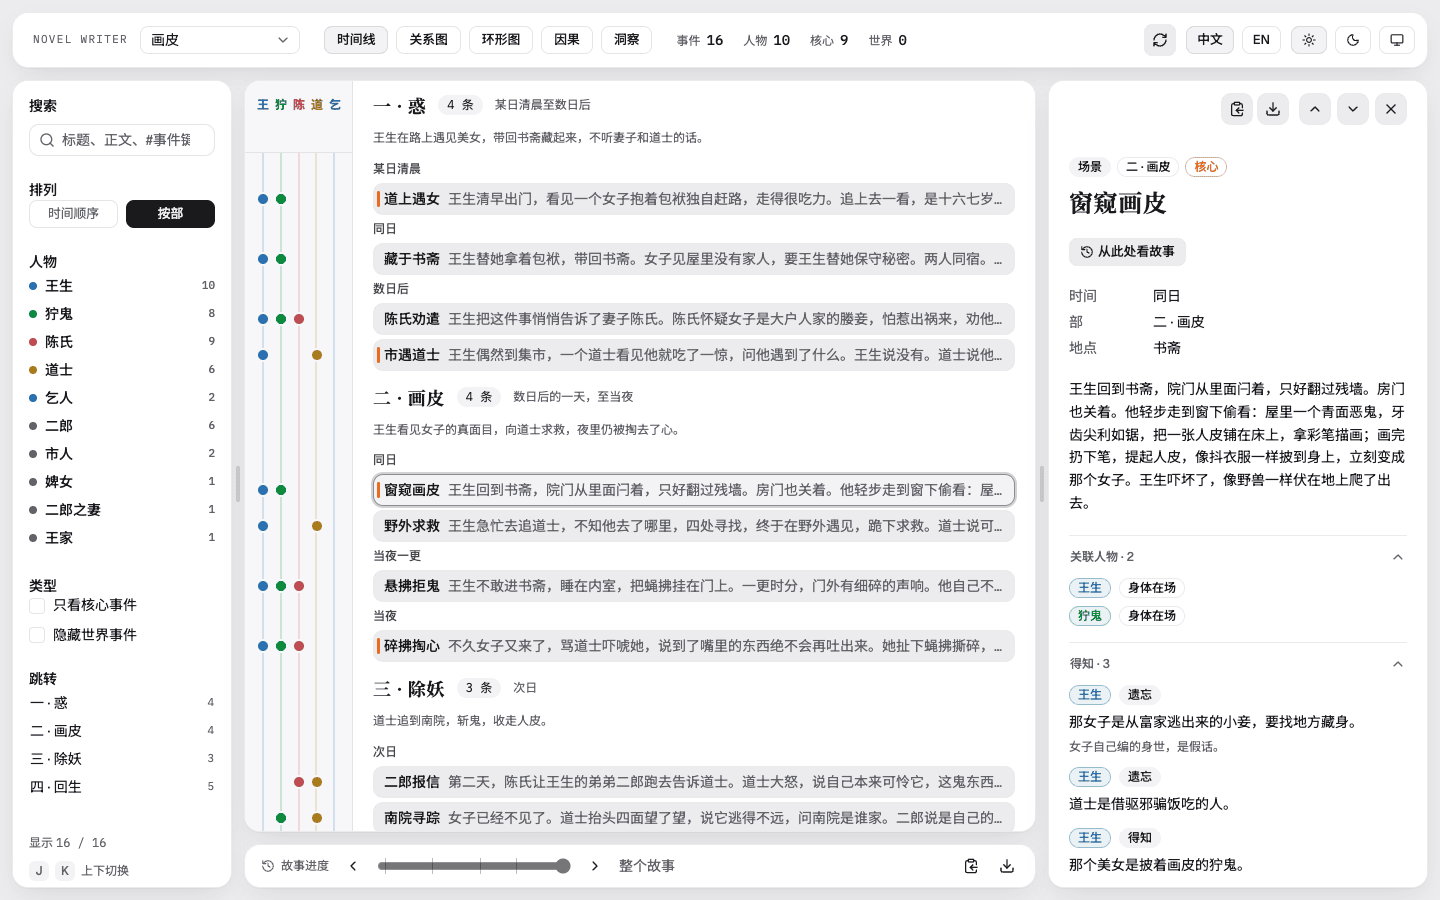
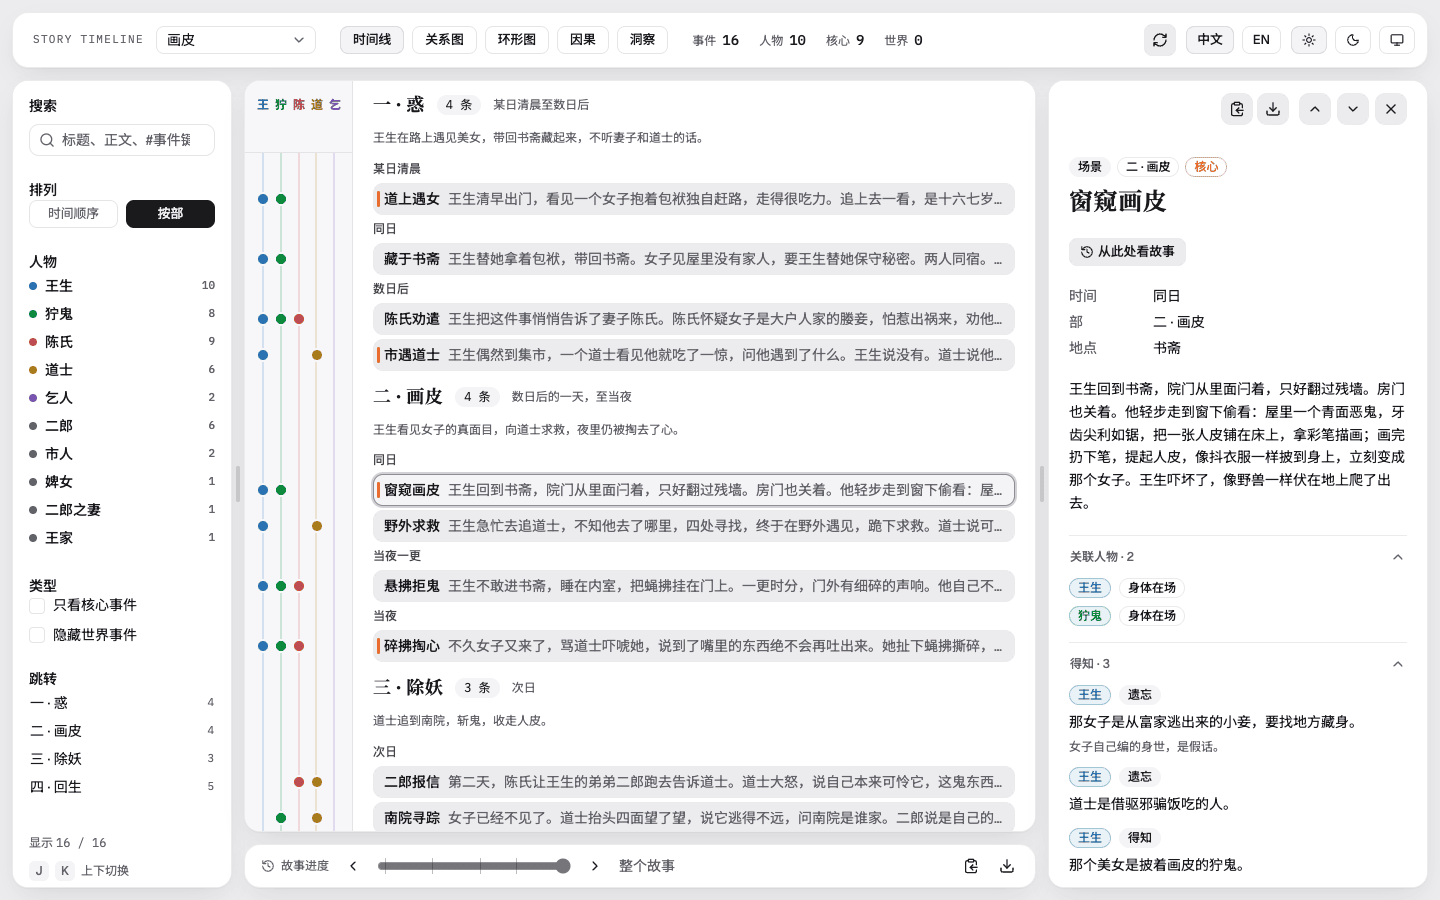
Fix the brand name, serif apostrophe, and lane colors in the web app

diff --git a/apps/web/src/components/people.tsx b/apps/web/src/components/people.tsx
@@ -18,14 +18,32 @@ export const PALETTE = [
   { light: 'oklch(0.52 0.05 245)', dark: 'oklch(0.76 0.04 245)' },
 ]
 
+/** The hue of an `oklch(L C H)` color, or undefined for any other color. */
+function oklchHue(color: string): number | undefined {
+  const m = /oklch\(\s*[\d.]+%?\s+[\d.]+\s+([\d.]+)/.exec(color)
+  return m ? Number(m[1]) : undefined
+}
+
+/** Hues closer than this (in degrees) read as the same color in a lane. */
+const HUE_GAP = 25
+
+/** True when a palette slot looks like an explicit color: the same value, or an oklch hue near it. */
+function slotTaken(slot: (typeof PALETTE)[number], color: string): boolean {
+  if (color.includes(slot.light) || color.includes(slot.dark)) return true
+  const hue = oklchHue(color)
+  if (hue === undefined) return false
+  const diff = Math.abs(hue - oklchHue(slot.light)!) % 360
+  return Math.min(diff, 360 - diff) < HUE_GAP
+}
+
 /**
  * Gives every lane a color. A character with an explicit color keeps it. The others take palette
- * slots in lane order, skipping a slot whose exact value an explicit color already uses, and
- * cycling past the last slot.
+ * slots in lane order, skipping a slot that an explicit color already uses (the same value, or
+ * an oklch color with a near hue), and cycling past the last slot.
  */
 export function laneColors(lanes: Character[]): LaneIndex {
   const explicit = lanes.flatMap(c => c.metadata?.color ?? [])
-  const free = PALETTE.map((_, i) => i).filter(i => !explicit.some(v => v.includes(PALETTE[i].light) || v.includes(PALETTE[i].dark)))
+  const free = PALETTE.map((_, i) => i).filter(i => !explicit.some(v => slotTaken(PALETTE[i], v)))
   const slots = free.length ? free : PALETTE.map((_, i) => i)
   let next = 0
   return new Map(lanes.map(c => [c.key, c.metadata?.color ?? `var(--person-${slots[next++ % slots.length]})`]))

diff --git a/apps/web/src/components/ProjectPicker.tsx b/apps/web/src/components/ProjectPicker.tsx
@@ -7,7 +7,7 @@ export interface ProjectOption {
   name: string
 }
 
-/** Desktop: the NOVEL WRITER mark and a select. Phone (`title`): the name as a serif title with a subtitle line. */
+/** Desktop: the STORY TIMELINE mark and a select. Phone (`title`): the name as a serif title with a subtitle line. */
 export function ProjectPicker({ projects, value, onChange, subtitle }: {
   projects: ProjectOption[]
   value: string
@@ -20,7 +20,7 @@ export function ProjectPicker({ projects, value, onChange, subtitle }: {
   return (
     <div className={cn('flex min-w-0 items-center gap-3', title && 'gap-0')}>
       {/* The mark gives way below 1280px, so the views and the tools keep their room. */}
-      {!title && <p className="font-mono text-[11px] tracking-[0.12em] whitespace-nowrap text-muted-foreground max-xl:hidden">NOVEL WRITER</p>}
+      {!title && <p className="font-mono text-[11px] tracking-[0.12em] whitespace-nowrap text-muted-foreground max-xl:hidden">STORY TIMELINE</p>}
       <Select value={value} onValueChange={onChange}>
         <SelectTrigger
           aria-label={title ? t.switchProject : t.project}

diff --git a/apps/web/index.html b/apps/web/index.html
@@ -5,6 +5,7 @@
     <meta name="viewport" content="width=device-width, initial-scale=1.0, viewport-fit=cover" />
     <meta name="color-scheme" content="light dark" />
     <title>Story Timeline</title>
+    <link rel="icon" type="image/svg+xml" href="/favicon.svg" />
     <script>
       // Apply the saved theme (see src/components/theme-provider.tsx) before the first paint.
       ;(() => {
@@ -18,7 +19,7 @@
     </script>
     <link rel="preconnect" href="https://fonts.googleapis.com" />
     <link rel="preconnect" href="https://fonts.gstatic.com" crossorigin />
-    <link rel="stylesheet" href="https://fonts.googleapis.com/css2?family=IBM+Plex+Mono:wght@400;500&family=Noto+Sans+SC:wght@400;500;700&family=Noto+Serif+SC:wght@700;900&display=swap" />
+    <link rel="stylesheet" href="https://fonts.googleapis.com/css2?family=IBM+Plex+Mono:wght@400;500&family=Noto+Sans+SC:wght@400;500;700&family=Noto+Serif+SC:wght@700;900&family=Source+Serif+4:wght@700;900&display=swap" />
   </head>
   <body>
     <div id="root"></div>

diff --git a/apps/web/src/components/people.test.ts b/apps/web/src/components/people.test.ts
@@ -12,6 +12,11 @@ describe('laneColors', () => {
     // Slot 1 is taken by b's exact value, so c skips to slot 2.
     expect(colors.get('c')).toBe('var(--person-2)')
   })
+  it('skips a slot whose hue is near an explicit oklch color', () => {
+    // 画皮: 王生 has oklch(0.55 0.13 250), near slot 0 (hue 250), so 乞人 must not get slot 0.
+    const colors = laneColors([lane('wang', 'oklch(0.55 0.13 250)'), lane('beggar')])
+    expect(colors.get('beggar')).toBe('var(--person-1)')
+  })
   it('cycles past the last slot', () => {
     const lanes = Array.from({ length: 9 }, (_, i) => lane(`p${i}`))
     expect(laneColors(lanes).get('p8')).toBe('var(--person-0)')

diff --git a/apps/web/src/index.css b/apps/web/src/index.css
@@ -6,7 +6,8 @@
 @custom-variant dark (&:is(.dark *));
 
 @theme inline {
-    --font-heading: 'Noto Serif SC', 'Songti SC', 'STSong', serif;
+    /* A Latin serif first: Latin text and punctuation such as ’ use it, and CJK falls through to Noto Serif SC. */
+    --font-heading: 'Source Serif 4', 'Noto Serif SC', 'Songti SC', 'STSong', serif;
     --font-sans: 'Geist Variable', 'Noto Sans SC', 'PingFang SC', 'Microsoft YaHei', sans-serif;
     --font-mono: 'IBM Plex Mono', ui-monospace, 'SFMono-Regular', Menlo, monospace;
     --color-sidebar-ring: var(--sidebar-ring);
